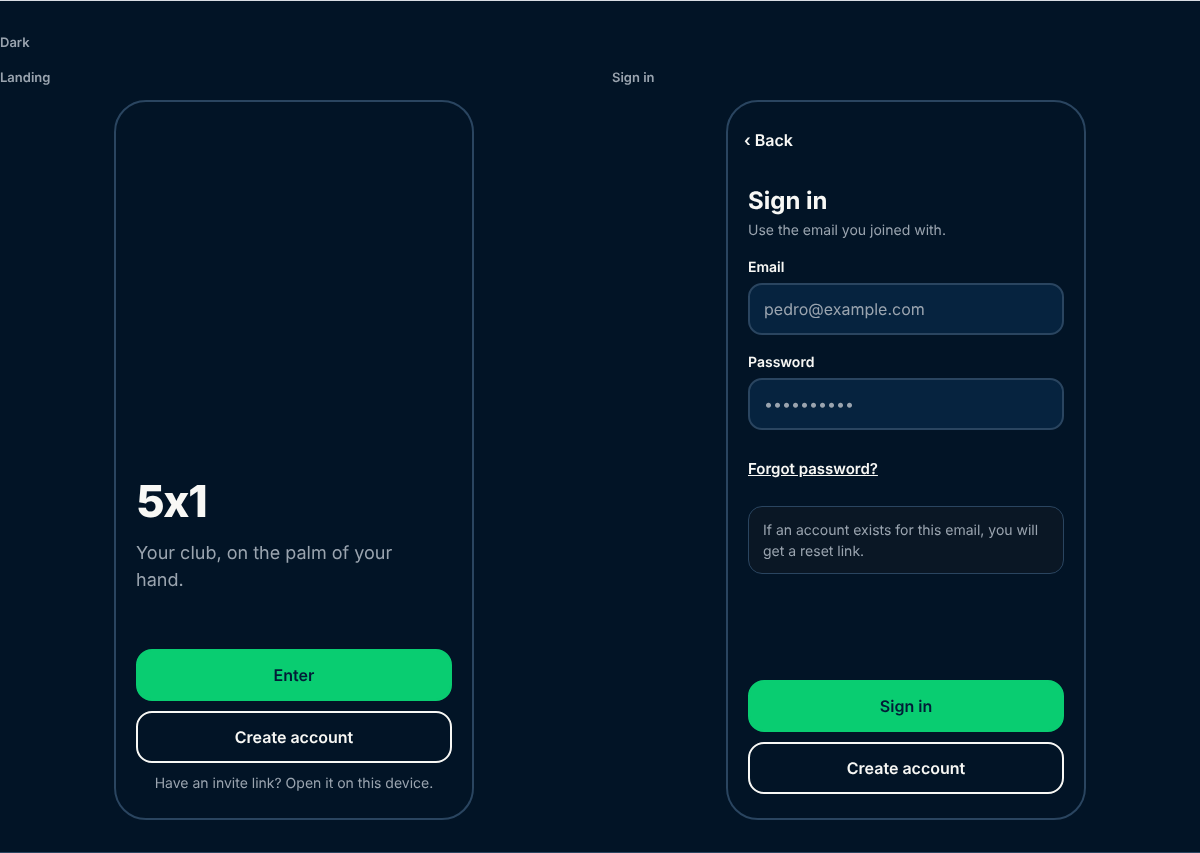
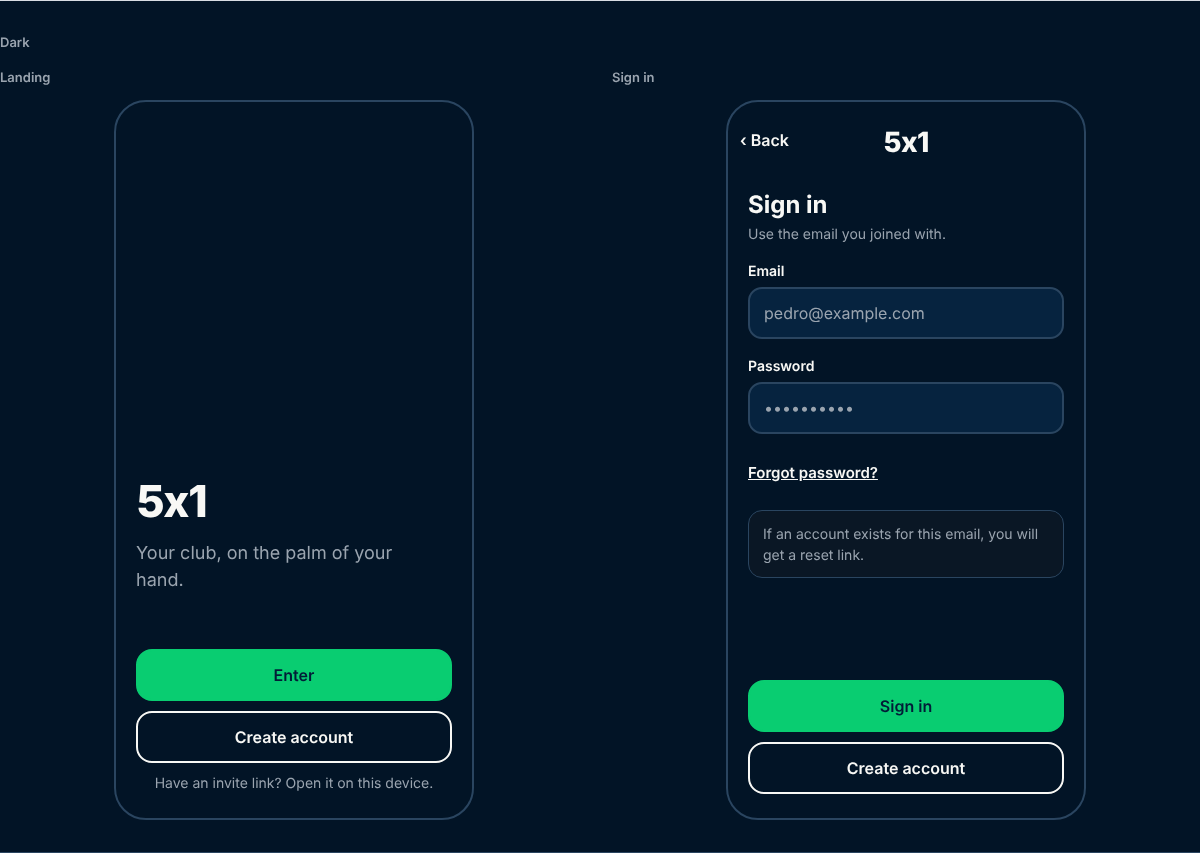
Centre 5x1 wordmark on sign-in screen (platform brand, not club crest)
Claude-Session: https://claude.ai/code/session_0182SLdmKrjcwnwCDfp5azGD

diff --git a/docs/internal/design/hifi/landing-v0.1.html b/docs/internal/design/hifi/landing-v0.1.html
@@ -26,6 +26,7 @@ p,h1,h2,h3{margin:0}
 .phone{width:100%;max-width:360px;margin:0 auto;height:720px;border-radius:32px;border:2px solid var(--line);background:var(--bg);color:var(--text);overflow:hidden;display:flex;flex-direction:column}
 .body{flex:1;min-height:0;overflow:hidden;padding:24px 20px 0;display:flex;flex-direction:column;gap:16px}
 .wordmark{font-weight:800;font-size:44px;letter-spacing:-0.03em;line-height:1}
+.wordmark-sm{font-weight:800;font-size:28px;letter-spacing:-0.02em;line-height:1}
 h1{font-size:30px;font-weight:700;line-height:1.2;letter-spacing:-0.01em}
 h2{font-size:24px;font-weight:700;line-height:1.25}
 .cap{font-size:14px;color:var(--text2);line-height:1.45}
@@ -79,7 +80,7 @@ h2{font-size:24px;font-weight:700;line-height:1.25}
         <div>
           <p class="label" style="margin-bottom:12px">Sign in</p>
           <div class="phone" style="background:var(--bg);color:var(--text)">
-            <div class="appbar"><button class="back" type="button" aria-label="Back to landing">‹ Back</button></div>
+            <div class="appbar" style="position:relative;justify-content:center;min-height:64px"><button class="back" type="button" aria-label="Back to landing" style="position:absolute;left:12px;top:16px">‹ Back</button><span class="wordmark-sm" aria-label="5x1">5x1</span></div>
             <div class="body">
               <div>
                 <h2>Sign in</h2>
@@ -127,7 +128,7 @@ h2{font-size:24px;font-weight:700;line-height:1.25}
         <div>
           <p class="label" style="margin-bottom:12px">Sign in</p>
           <div class="phone" style="background:var(--bg);color:var(--text)">
-            <div class="appbar"><button class="back" type="button" aria-label="Back to landing">‹ Back</button></div>
+            <div class="appbar" style="position:relative;justify-content:center;min-height:64px"><button class="back" type="button" aria-label="Back to landing" style="position:absolute;left:12px;top:16px">‹ Back</button><span class="wordmark-sm" aria-label="5x1">5x1</span></div>
             <div class="body">
               <div>
                 <h2>Sign in</h2>
